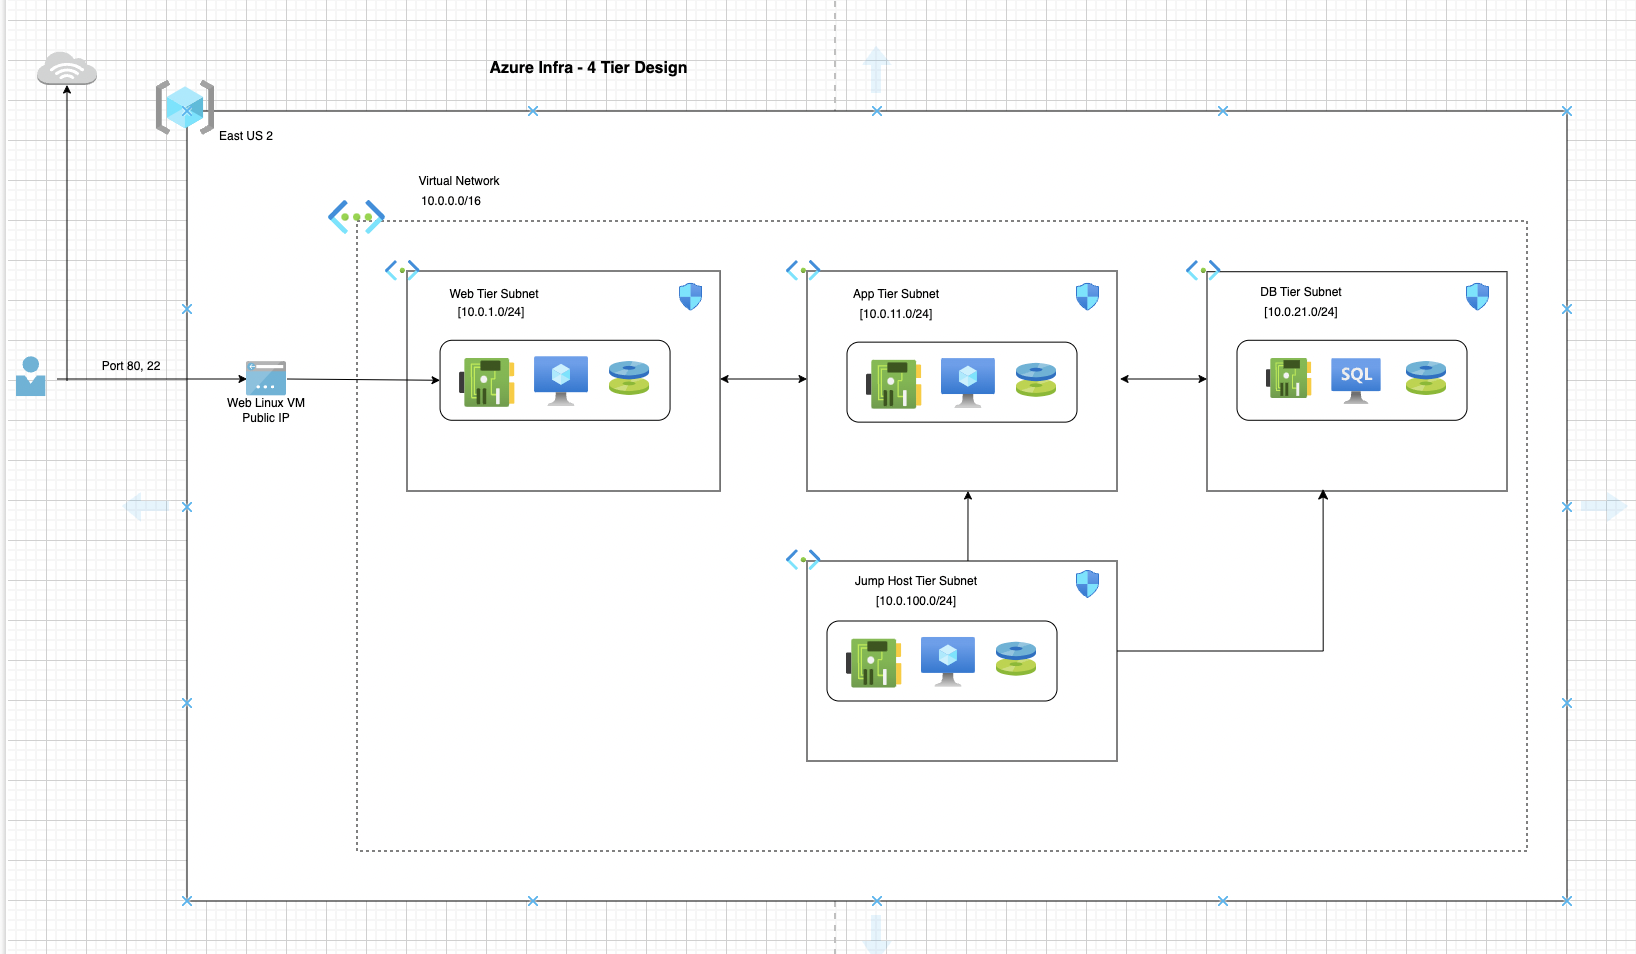
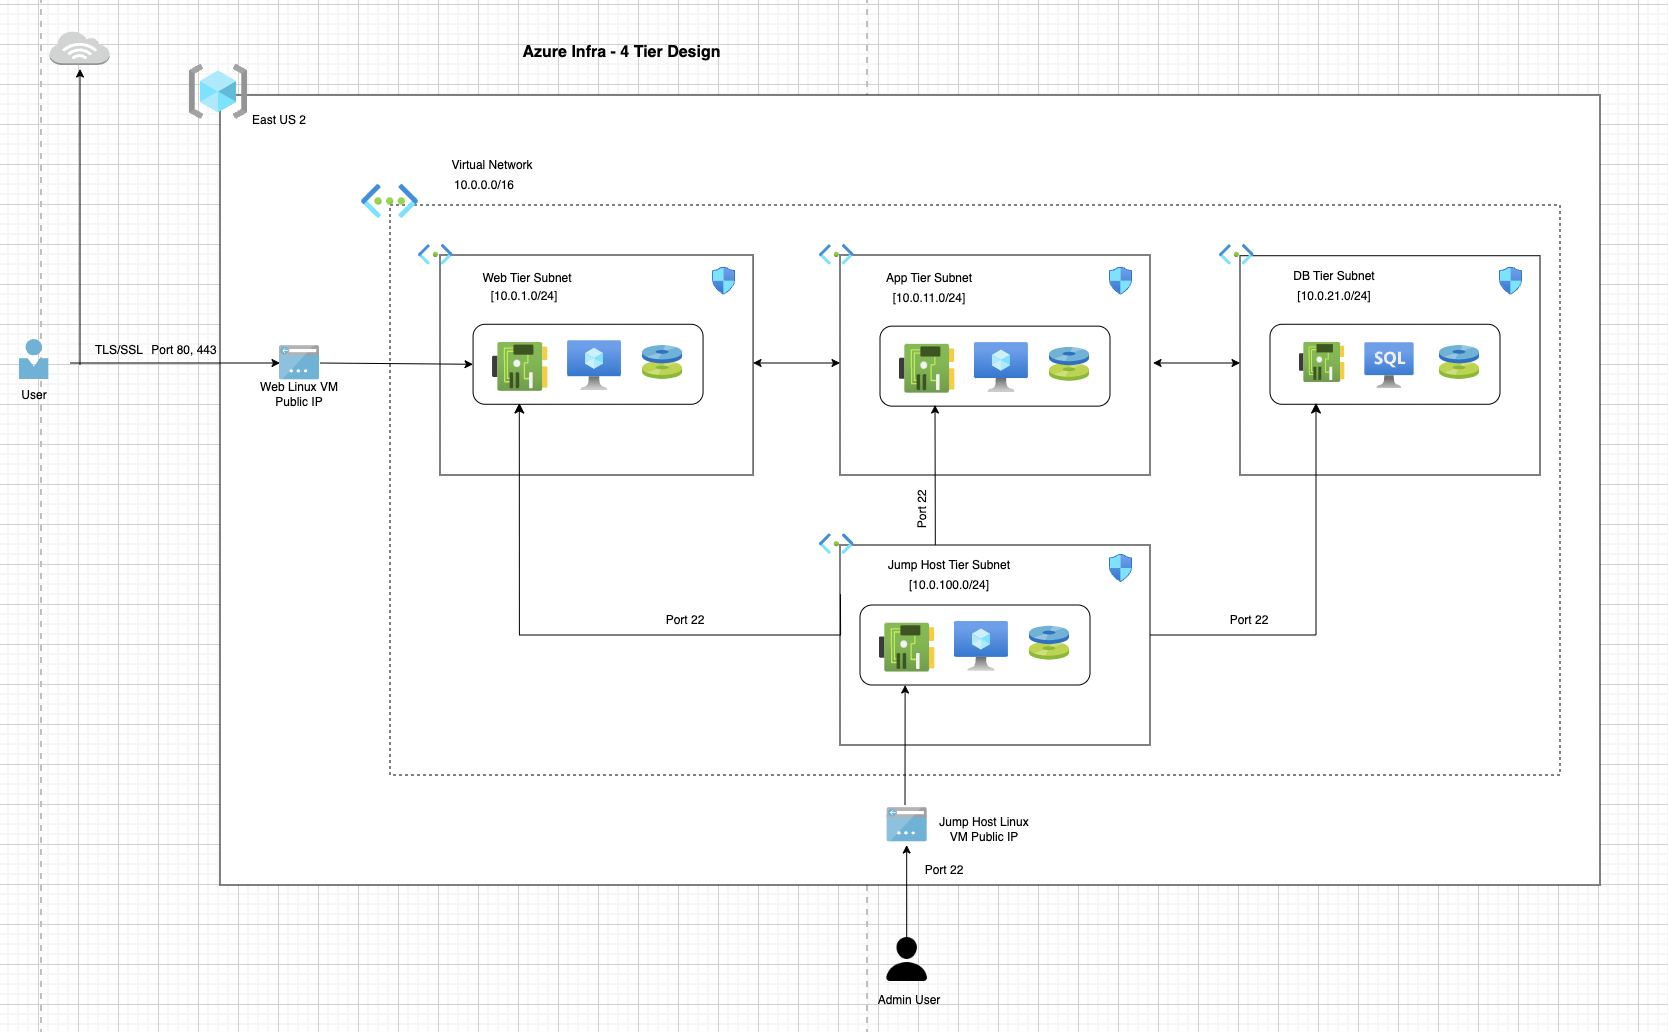
Updated vm configurations (#2)
* created vm configurations

* updated vm configurations

* renamed design

diff --git a/virtual-machine/README.md b/virtual-machine/README.md
@@ -38,5 +38,27 @@ chmod 400 terraform-azure.pem
 
 The image below shows the architecture diagram for the various servsers.
 
-![Virtual Machine design](../images/4-tier-vm-design.png)
+![Virtual Machine design](../images/4-tier-design-vm.png)
+
+### Connect to Jump Host linux VM
+
+1. Connect to Jump Host Linux VM
+```
+ssh -i ssh-keys/terraform-azure.pem azureuser@<Jump-Host-LinuxVM-PublicIP>
+cd /tmp
+ls
+```
+2. terraform-azure.pem file should be present in /tmp directory
+
+### Connect to Web Linux VM using Bastion Host VM
+1. Connect to Web Linux VM
+```
+ssh -i ssh-keys/terraform-azure.pem azureuser@<Web-LinuxVM-PrivateIP>
+cd /var/log
+sudo tail -100f cloud-init-output.log
+cd /var/www/html
+ls -la
+cd /var/www/html/app1
+ls -la
+```
 
